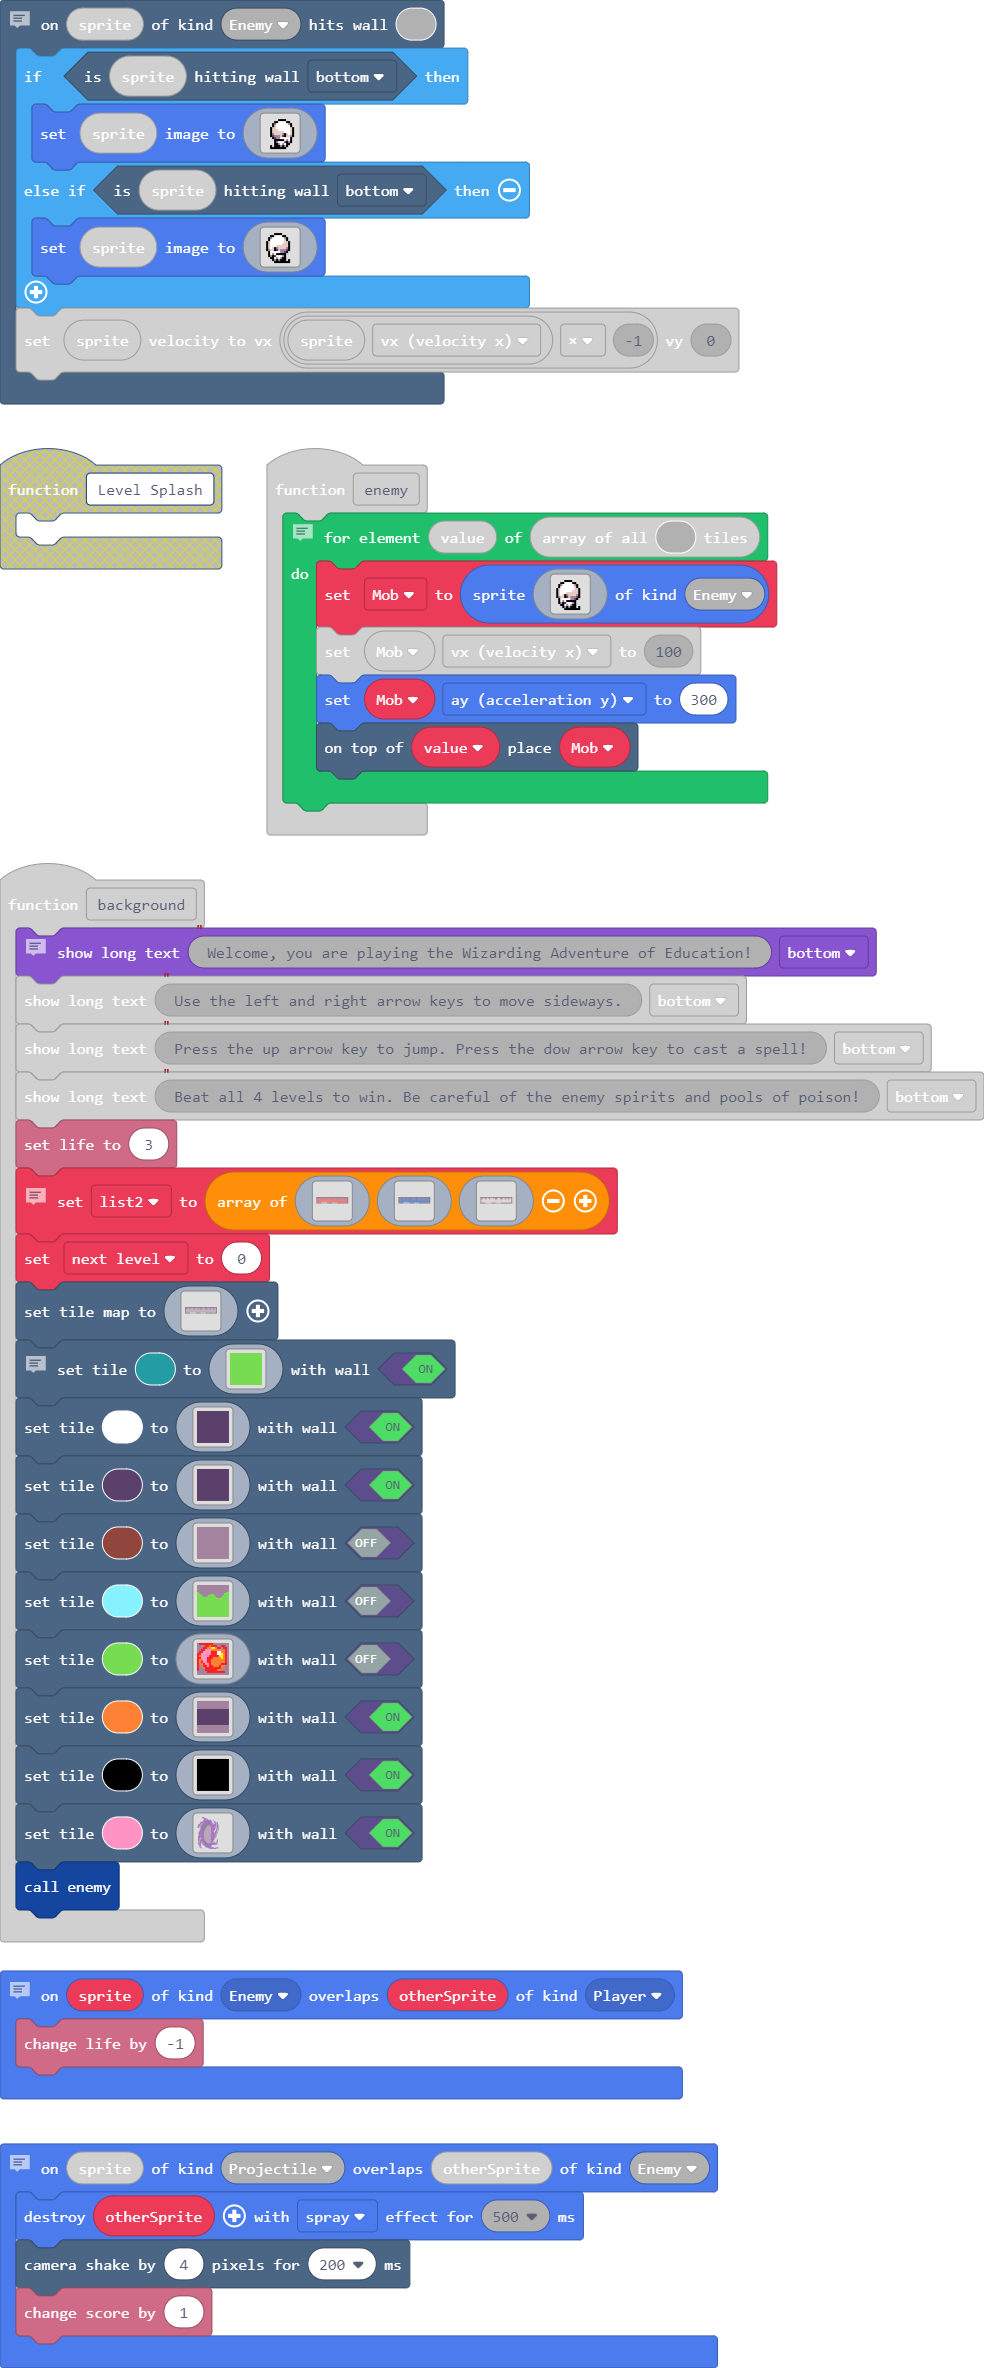
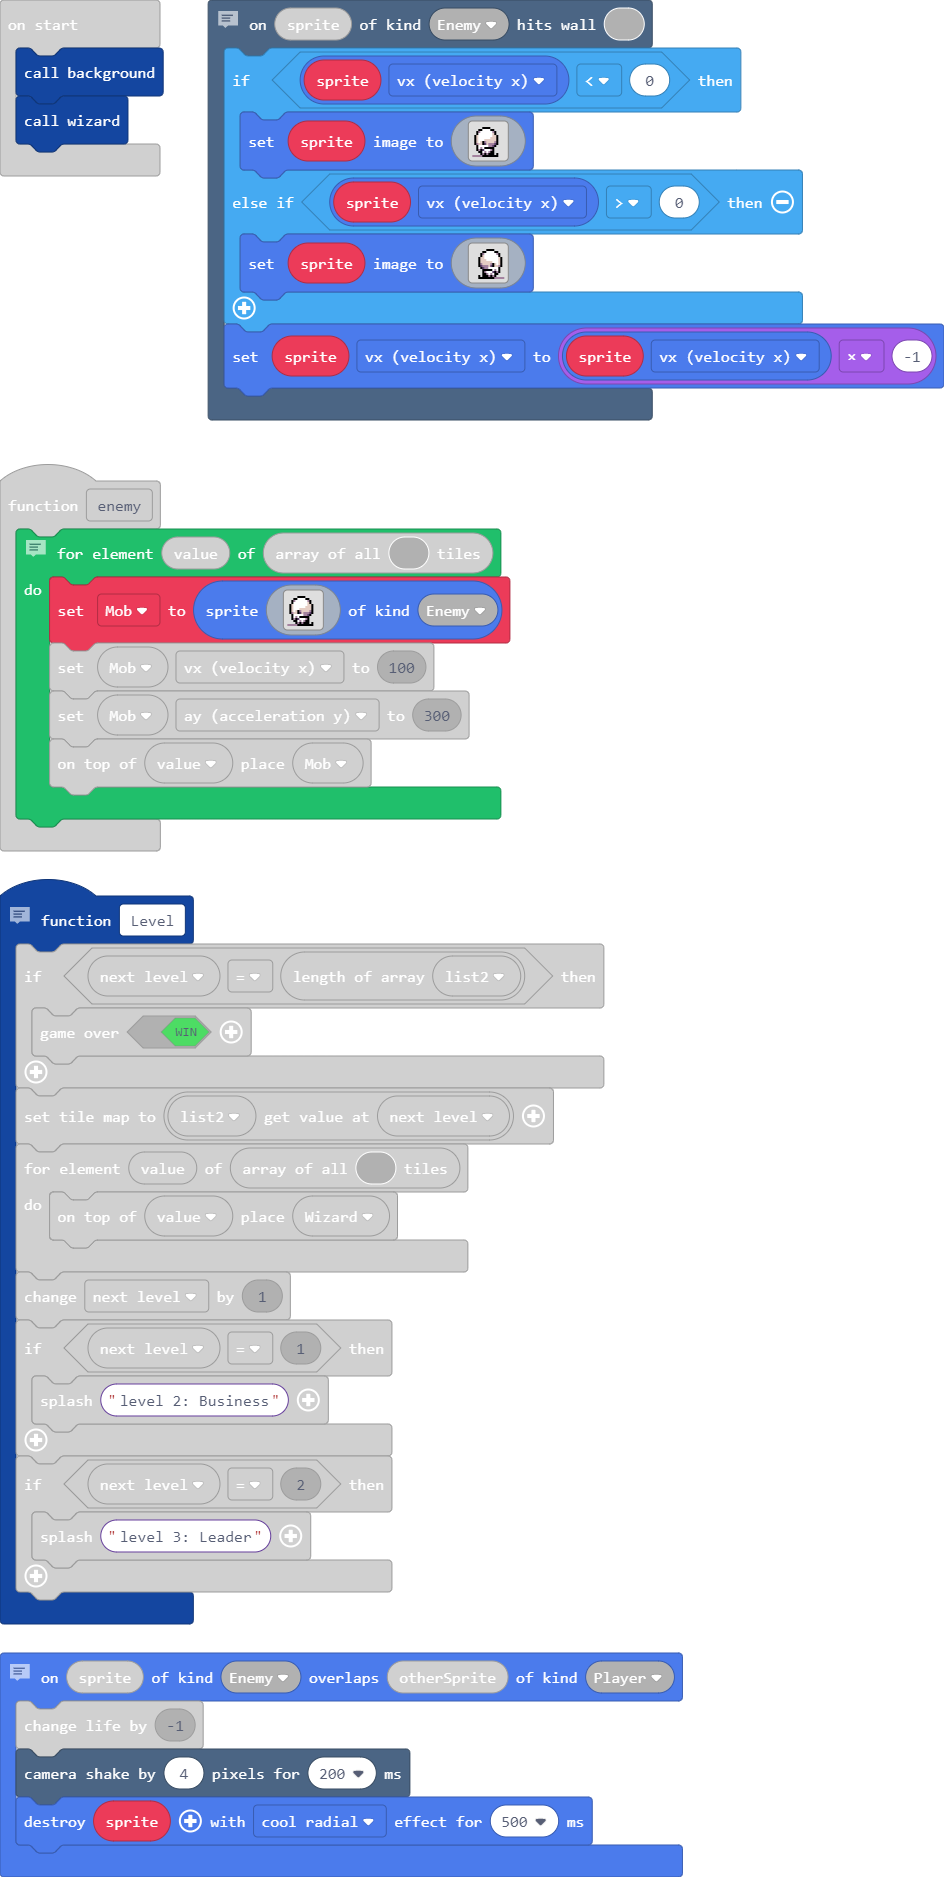
Update main.blocks, main.ts

diff --git a/main.ts b/main.ts
@@ -585,6 +585,8 @@ a a c c . a b a a c c c c c c c b b b b b b b b a a a a a a a a . . c c a . . . 
 // wizard
 sprites.onOverlap(SpriteKind.Enemy, SpriteKind.Player, function (sprite, otherSprite) {
     info.changeLifeBy(-1)
+    scene.cameraShake(4, 200)
+    sprite.destroy(effects.coolRadial, 500)
 })
 // Wizard dies when hitting the liquid
 scene.onHitTile(SpriteKind.Player, 6, function (sprite) {
@@ -616,7 +618,7 @@ function enemy () {
 . . f b f c 1 1 1 b f . . . . . 
 . . . f f 1 b 1 b f f . . . . . 
 . . . . f b f b f f f . f . . . 
-. . . . . f f f f f f f f . . . 
+b b b b b f f f f f f f f . . . 
 `, SpriteKind.Enemy)
         Mob.vx = 100
         Mob.ay = 300
@@ -636,34 +638,15 @@ function Level () {
     }
     next_level += 1
     if (next_level == 1) {
-        game.splash("level 2")
+        game.splash("level 2: Business")
     }
     if (next_level == 2) {
-        game.splash("level 3")
+        game.splash("level 3: Leader")
     }
 }
 // Ghost switches direction when hitting a wall
 scene.onHitTile(SpriteKind.Enemy, 1, function (sprite) {
-    if (sprite.isHittingTile(CollisionDirection.Bottom)) {
-        sprite.setImage(img`
-. . . . . . . . . . . . . . . . 
-. . . . . . . f f f f . . . . . 
-. . . . . f f 1 1 1 1 f f . . . 
-. . . . f b 1 1 1 1 1 1 b f . . 
-. . . . f d 1 1 1 1 1 1 1 f . . 
-. . . f d d 1 1 1 1 1 1 1 d f . 
-. . . f d d d 1 1 1 1 1 1 d f . 
-. . . f d d d d d d 1 1 1 d f . 
-. . . f b d d d d b f d 1 d f . 
-. . . f c b b b d c f d d b f . 
-. . . . f c b b 1 1 1 1 1 f . . 
-. . . . . f f f f f 1 b 1 f . . 
-. . . . . f b 1 1 1 c f b f . . 
-. . . . . f f b 1 b 1 f f . . . 
-. . . f . f f f b f b f . . . . 
-. . . f f f f f f f f . . . . . 
-`)
-    } else if (sprite.isHittingTile(CollisionDirection.Bottom)) {
+    if (sprite.vx < 0) {
         sprite.setImage(img`
 . . . . . . . . . . . . . . . . 
 . . . . . f f f f . . . . . . . 
@@ -680,10 +663,29 @@ scene.onHitTile(SpriteKind.Enemy, 1, function (sprite) {
 . . f b f c 1 1 1 b f . . . . . 
 . . . f f 1 b 1 b f f . . . . . 
 . . . . f b f b f f f . f . . . 
-. . . . . f f f f f f f f . . . 
+b b b b b f f f f f f f f . . . 
+`)
+    } else if (sprite.vx > 0) {
+        sprite.setImage(img`
+. . . . . . . . . . . . . . . . 
+. . . . . . . f f f f . . . . . 
+. . . . . f f 1 1 1 1 f f . . . 
+. . . . f b 1 1 1 1 1 1 b f . . 
+. . . . f d 1 1 1 1 1 1 1 f . . 
+. . . f d d 1 1 1 1 1 1 1 d f . 
+. . . f d d d 1 1 1 1 1 1 d f . 
+. . . f d d d d d d 1 1 1 d f . 
+. . . f b d d d d b f d 1 d f . 
+. . . f c b b b d c f d d b f . 
+. . . . f c b b 1 1 1 1 1 f . . 
+. . . . . f f f f f 1 b 1 f . . 
+. . . . . f b 1 1 1 c f b f . . 
+. . . . . f f b 1 b 1 f f . . . 
+. . . f . f f f b f b f . . . . 
+. . . f f f f f f f f b b b b b 
 `)
     }
-    sprite.setVelocity(sprite.vx * -1, 0)
+    sprite.vx = sprite.vx * -1
 })
 // Wizard jumps when pressing up arrow
 controller.up.onEvent(ControllerButtonEvent.Pressed, function () {
@@ -698,5 +700,5 @@ let Spell: Sprite = null
 let list: Image[] = []
 let Wizard: Sprite = null
 let Count = 0
-wizard()
 background()
+wizard()
